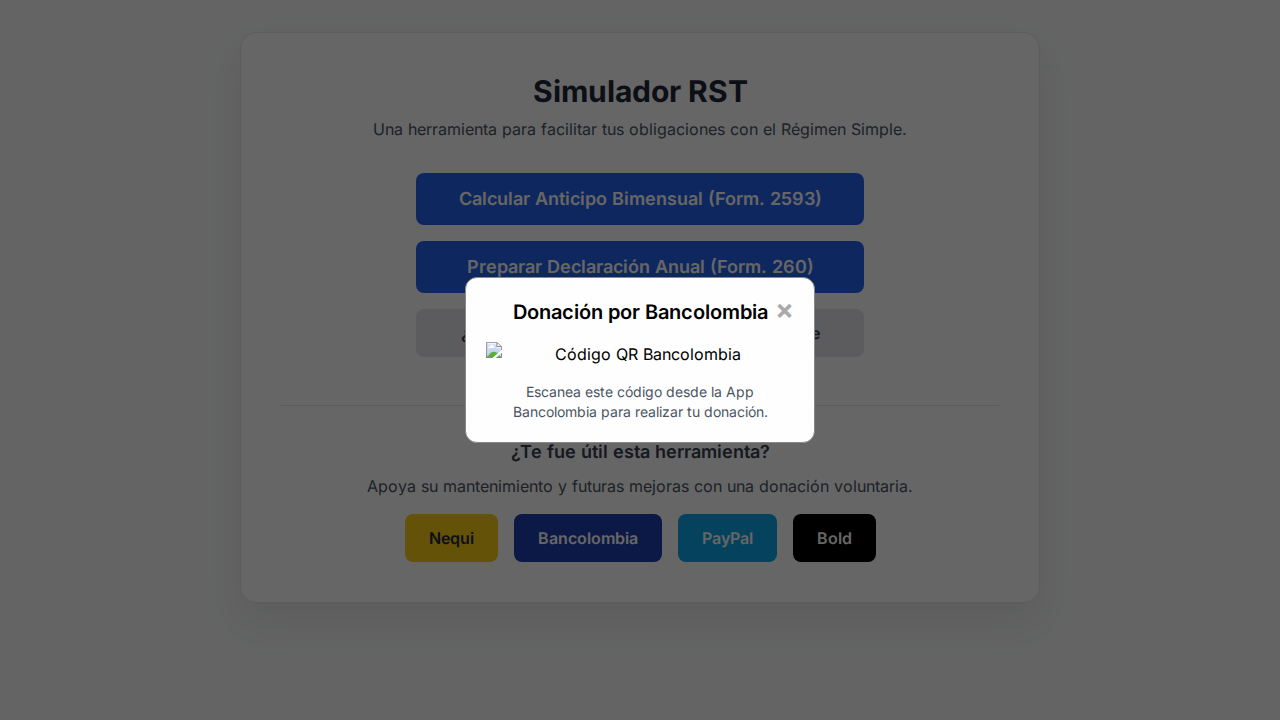
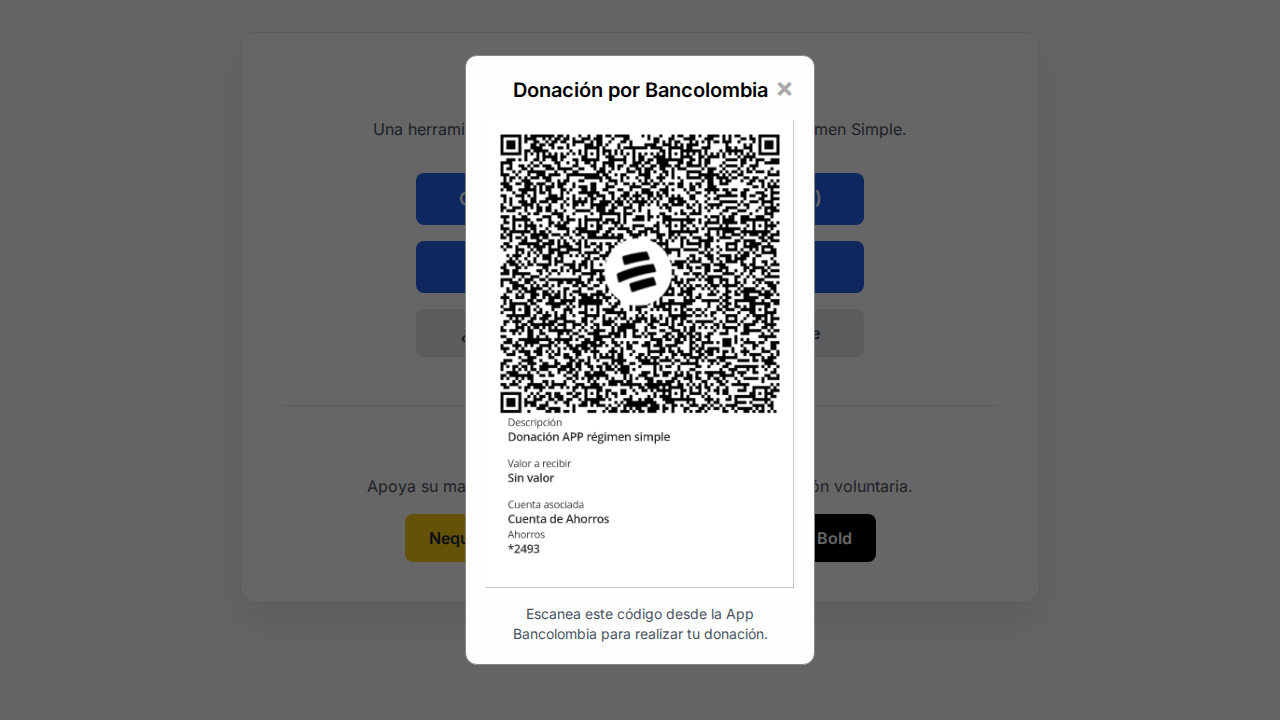
Fix: Display QR code in modal
The QR code for Bancolombia donations was not being displayed. This was because the image was being loaded from an inaccessible Google Drive link.

I have updated the image source to a direct, publicly accessible URL, ensuring the QR code now renders correctly when you click the 'Bancolombia' button. I also updated the Playwright verification script to wait for the image to load before taking a screenshot.

Changed region(s): [[0.3438, 0.0611, 0.6562, 0.9472]]

diff --git a/index.html b/index.html
@@ -485,7 +485,7 @@
     }
 
     function showQrModal() {
-        const qrImageUrl = "https://drive.google.com/uc?export=view&id=1dkrBcA5bgkwMSWuvhcQpOt2rsyS-v6Uz";
+        const qrImageUrl = "https://contador.net.co/wp-content/uploads/2025/08/qr-bancolombia.jpeg";
         const modal = document.getElementById('qrModal');
         if (modal) {
             document.getElementById('qrImage').src = qrImageUrl;

diff --git a/jules-scratch/verification/verify_qr_code.py b/jules-scratch/verification/verify_qr_code.py
@@ -17,6 +17,10 @@ def verify_qr_code(page: Page):
     modal = page.locator("#qrModal")
     expect(modal).to_be_visible()
 
+    # Also wait for the image inside the modal to be loaded
+    qr_image = modal.locator("#qrImage")
+    expect(qr_image).to_be_visible()
+
     # Take a screenshot of the modal
     modal.screenshot(path="jules-scratch/verification/verification.png")
 
